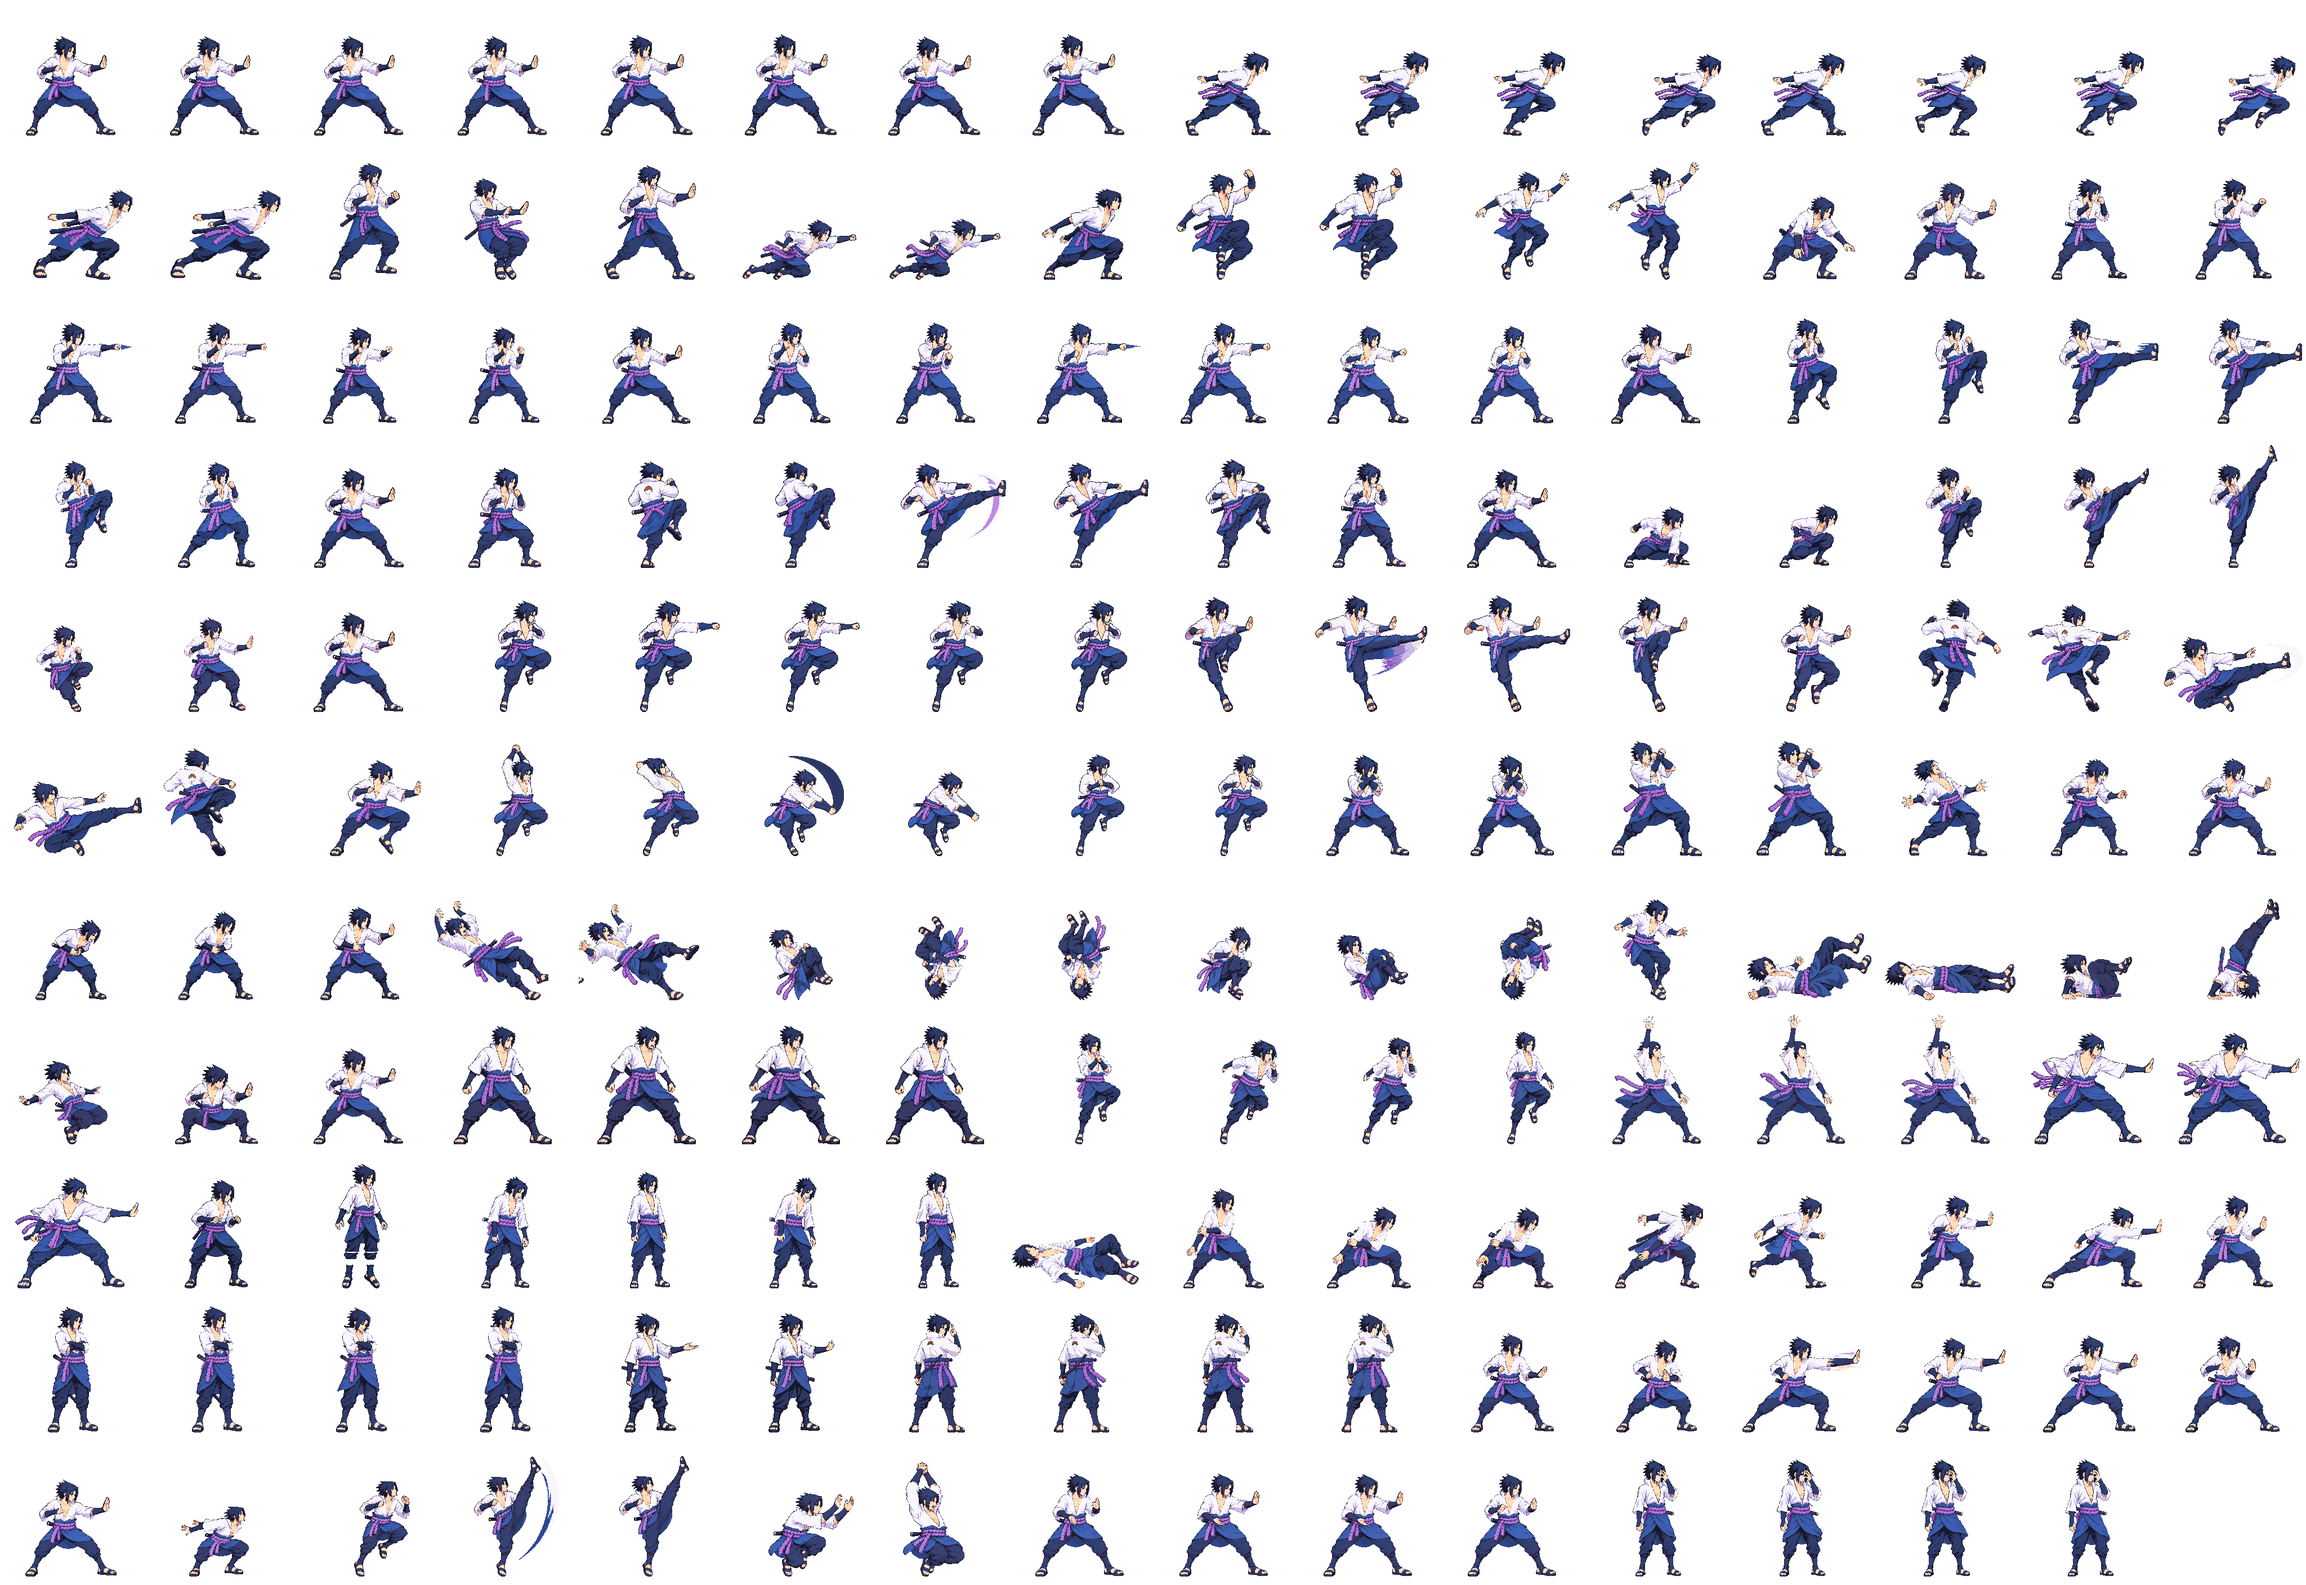
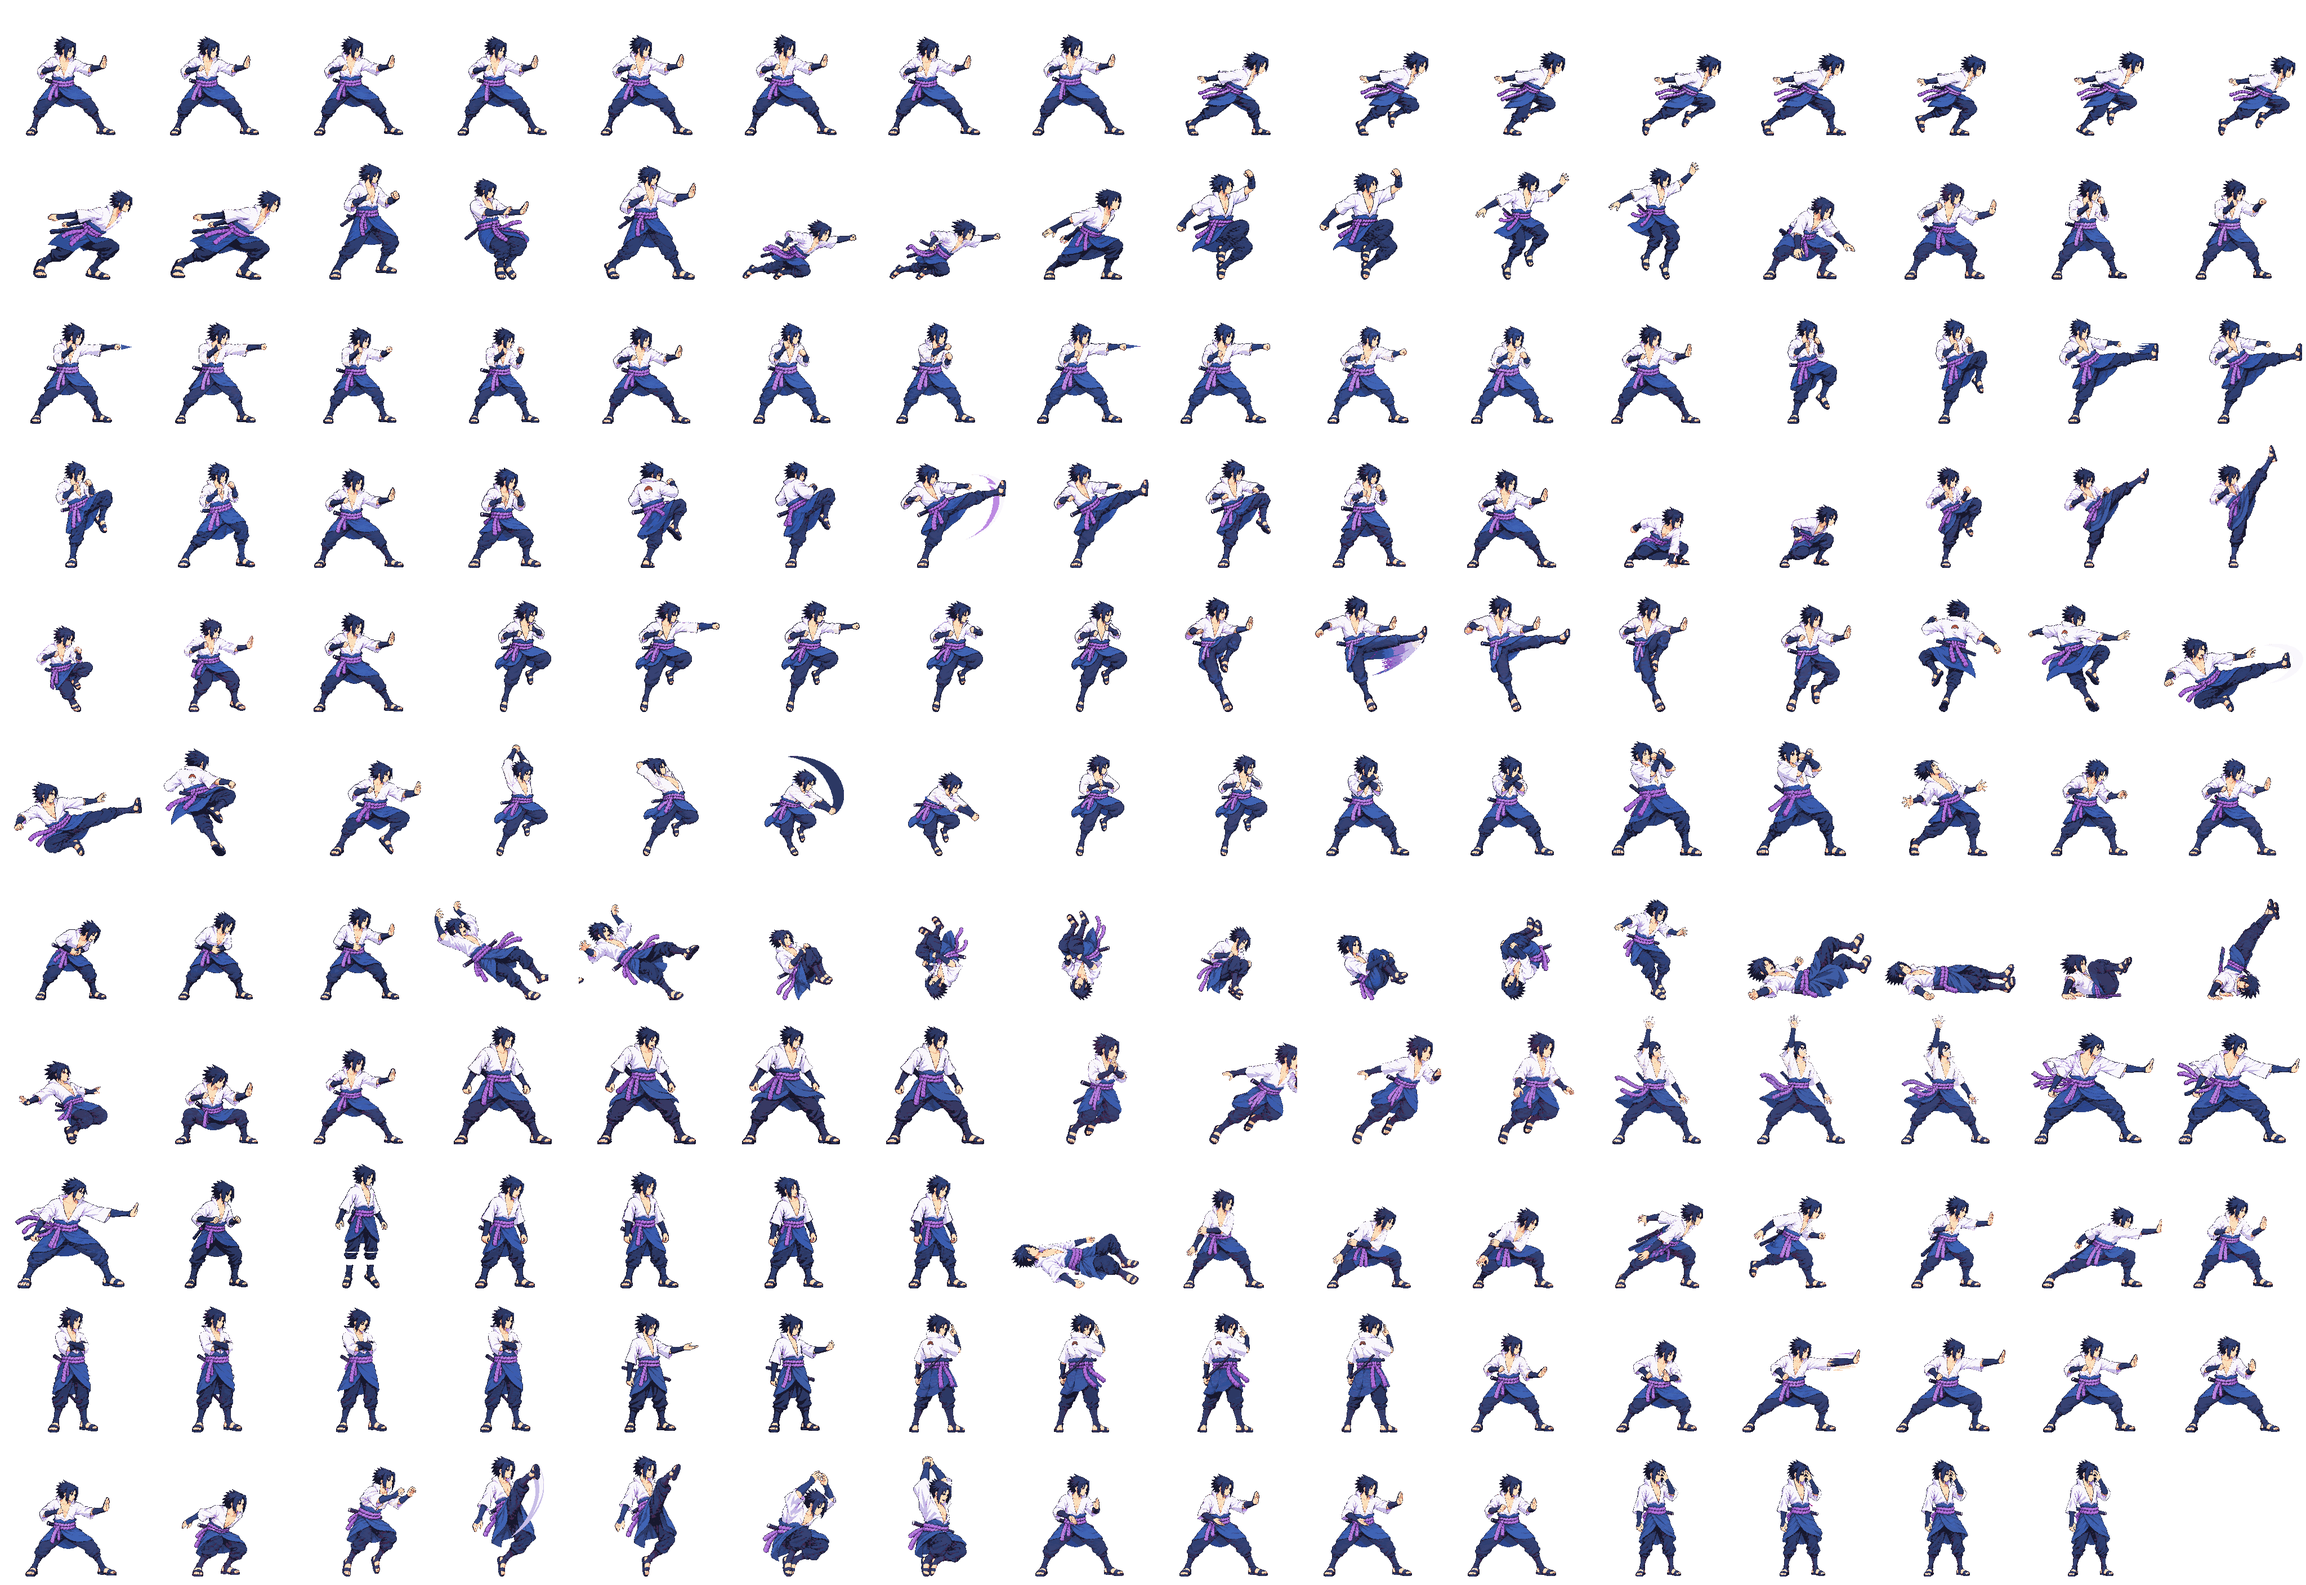
art(sasuke): document final throw and stagger review holds

diff --git a/docs/TASKS.md b/docs/TASKS.md
@@ -20,7 +20,7 @@ The single list of work in flight, shared by the user, Claude and Codex. The pro
 
 ## Milestone M2: training, input, hit accuracy (v0.3.0)
 
-**ART-SAS-TITLE-20261011**, Codex, in-progress. files: art/characters/sasuke/, art/manifest.json, art/TRACKER.md, art/REVIEW.md, art/scale/heads-sasuke.png, public/characters/sasuke/, public/art-review/title-production/sasuke-candidate/, docs/TASKS.md, CHANGELOG.md. Real worktree `art/sasuke-title-production`, draft PR #71. Title-style source attempts now cover all 42 animations and three UI. Strict 48-color mixed atlas passes with 33 title-style animations and nine older fallbacks; it does not certify the complete redraw. New airLight2 v04, airLight3 v07, special v13, specialForward v10 and specialDown v04 pass candidate scale/packing QA. specialUp v04-v06 are archived for failed exact airHeavy f0 endpoint and unresolved tucked head probe, so old v02 packs. Three v02 UI remain raw review candidates; diagnostic preview fits them without approved UI promotion, and portrait hides the far eye in its near-profile pose. Launched/down/KO exhausted, throw/stagger/superPose genuine art holds, spin/airRecover low-confidence holds, contact/hurtboxes Claude validation held. Preview player and native contacts in title-style QA. User final image review and Claude integration remain open.
+**ART-SAS-TITLE-20261011**, Codex, in-progress. files: art/characters/sasuke/, art/manifest.json, art/TRACKER.md, art/REVIEW.md, art/scale/heads-sasuke.png, public/characters/sasuke/, public/art-review/title-production/sasuke-candidate/, docs/TASKS.md, CHANGELOG.md. Real worktree `art/sasuke-title-production`, draft PR #71. Title-style source attempts now cover all 42 animations and three UI. Strict 48-color mixed atlas passes with 33 title-style animations and nine older fallbacks; it does not certify the complete redraw. New airLight2 v04, airLight3 v07, special v13, specialForward v10 and specialDown v04 pass candidate scale/packing QA. specialUp v04-v06 are archived for failed exact airHeavy f0 endpoint and unresolved tucked head probe, so old v02 packs. Three v02 UI remain raw review candidates; diagnostic preview fits them without approved UI promotion, and portrait hides the far eye in its near-profile pose. Launched/down/KO exhausted, throw/stagger (three attempts exhausted), superPose genuine art holds, spin/airRecover low-confidence holds, contact/hurtboxes Claude validation held. Preview player and native contacts in title-style QA. User final image review and Claude integration remain open.
 
 Cast proportion review: **ART-CAST-SAMPLES**, Codex, review. User requested a quick sample checkpoint before the full frame audit. Branch `art/cast-scale-samples` compares production-matched sprites, Naruto guard/block/spot-dodge head crops, and approved turnarounds. No art approvals or gameplay changes. Full audit paused for user feedback; Claude owns integration.
 

diff --git a/art/TRACKER.md b/art/TRACKER.md
@@ -168,9 +168,9 @@ Sprite Lab; if his hair adds clearly less height and his head comes out bigger, 
 | 9 | hurtLow | 3 | - | no | 166 | approved | v03 | v01 | Title-style v03 candidate: measured head fit from 183 to 166 px target, strict new-strip 48-color gate passes; actual packed three-frame QA shows bent abdomen reaction and a matching rising stance. Old v01 remains approved pending full-set review. |
 | 9 | spin | 4 | - | no | 160 | approved | v03 | v01 | Title-style v03 source archived: diagnostic rotation correct, tucked torso/full-limb one-scale proof insufficient. No manual pass; old v01 approved and packed. |
 | 9 | airRecover | 3 | - | no | 180 | approved | v03 | v01 | Title-style v03 source archived: diagnostic orientation correct, tucked torso/limb one-scale proof insufficient. No manual pass; old v01 approved and packed. |
-| 9 | throw | 4 | 1/1/2 | no | 201 | approved | v04 | v01 | Title-style v03/v04 archived for f1 right clip and real f1/f2 head pop; no contact pass. Old v01 remains approved and packed. |
+| 9 | throw | 4 | 1/1/2 | no | 201 | approved | v05 | v01 | Final title-style v05 fails head/foot drift, right clipping and mouth release zone after three calls; old approved v01 packs. |
 | 9 | vanish | 2 | - | no | 221 | approved | v05 | v01 | Title-style v05 afterimage candidate uses version-only manual low-confidence anatomy acceptance after native face/torso/limb QA; not a numeric pass. v03/v04 source-size mismatch archived. Old v01 remains approved pending final-set review. |
-| 9 | stagger | 4 | - | no | 207 | approved | v05 | v01 | Title-style v04/v05 archived for near-frontal face in a right-facing 3/4 game; old v01 remains approved and packed. |
+| 9 | stagger | 4 | - | no | 207 | approved | v06 | v01 | Final title-style v06 fails head/foot drift and f2 near-frontal angle after three calls; old approved v01 packs. |
 | 9 | ko | 1 | - | no | 64 | approved | v05 | v02 | Title-style v04/v05 preserved original supine bent-knees KO but were rejected after three imagegen attempts: low-confidence anatomy and lying contact warnings. Original approved v02 remains packed; technical redraw guidance needed. [QA](characters/sasuke/production/title-style/QA.md). |
 | 9 | intro | 4 | - | no | 210 | approved | v03 | v01 | Title-style v03 crossed-arm loop passes 48-color gate with measured auto-head fit 1.065; old v01 approved pending final-set review. |
 | 9 | taunt | 2 | - | no | 212 | approved | v03 | v01 | Title-style v03 red-eyed beckon passes 48-color new-strip gate without clipping/exemption; actual two-frame atlas QA. Old v01 remains approved pending final-set review. |

diff --git a/art/characters/sasuke/production/title-style/QA.md b/art/characters/sasuke/production/title-style/QA.md
@@ -137,6 +137,8 @@ SpecialUp v04 B was visibly oversized after the neutral stitch and clipped f5. v
 
 Fitted [portrait v02](../../../../public/art-review/title-production/sasuke-candidate/portrait.png) fills 96x96 but keeps the jaw and nose within the cell but its near-profile angle and front bang hide the far eye, so it remains a composition review hold. The 480x128 red three-tomoe cut-in and 384x384 Chidori select art retain their intended silhouettes in fitted diagnostic outputs; both remain unapproved. No UI fixed-name promotion occurred. 48-color palette enforcement remains active. Historical attack reach and hurtbox locations are pending Claude's approved-stature validation.
 
+- Final throw v05 and stagger v06 were generated as the third and final targeted attempts. Fresh 48-color native [throw cells](diagnostic-native-throw-final.png) show f1/f2 right cropping 11/6 px, head ratio 1.14 versus foot proxy 0.86, and the mouth remains beyond the specified release point. [Stagger cells](diagnostic-native-stagger-final.png) still turn the f2 face toward camera and show head 1.08 versus foot proxy 0.75. Neither passed the new-strip scale gate; both are archived. The review player deliberately includes these held sources for inspection through a diagnostic warning-gate atlas. The ordinary strict atlas retains the older approved throw/stagger. All three imagegen calls for each asset are exhausted.
+
 ## Remaining checks
 
 The escalated local Vite adapter served port 5222. The in-app browser showed two Sasuke fighters at the same game depth with the new idle, matched apparent height and grounded feet. The console logged `[sprites] using custom sheet for sasuke (42 animations)` and no errors. The production build passed (80 modules) and the adapter's HTTP self-check returned four 200 responses. Full production, full-character strict scale, contact/hurtbox validation, user image approval, integration and deployment remain open.

diff --git a/art/REVIEW.md b/art/REVIEW.md
@@ -53,6 +53,8 @@ Status values: `needs review` · `approved` · `rejected`.
 
 | date | character | asset | file | version | status | what changed | QA notes |
 |---|---|---|---|---|---|---|---|
+| 2026-10-11 | sasuke | throw | [throw_v05.png](characters/sasuke/raw/_rejected/throw_v05.png) | v05 | rejected | Final airborne fireball breath redraw with stable face angle. | Strict 48-color gate fails head 1.14 versus foot 0.86 and f1/f2 clip 11/6 px right; native [cells](characters/sasuke/production/title-style/diagnostic-native-throw-final.png) miss mouth release zone. Three calls exhausted; original v01 packs. |
+| 2026-10-11 | sasuke | stagger | [stagger_v06.png](characters/sasuke/raw/_rejected/stagger_v06.png) | v06 | rejected | Final planted dizzy-sway redraw. | Strict 48-color gate fails head 1.08 versus foot 0.75; f2 in [native cells](characters/sasuke/production/title-style/diagnostic-native-stagger-final.png) remains too near-frontal. Three calls exhausted; original v01 packs. |
 | 2026-10-11 | sasuke | airLight2 | [airLight2_v04.png](characters/sasuke/raw/airLight2_v04.png) | v04 | needs review | Five-frame airborne kick from chamber to recovery. | 48-color gate passes; native anatomy/pose check in QA. [QA](characters/sasuke/production/title-style/QA.md). |
 | 2026-10-11 | sasuke | airLight3 | [airLight3_v07.png](characters/sasuke/raw/airLight3_v07.png) | v07 | needs review | Six-frame turning heel kick; B re-generated at measured A/B 0.9974, whole-pose offsets fit f2/f3. | 48-color gate passes; native contact and full anatomy in QA. [QA](characters/sasuke/production/title-style/QA.md). |
 | 2026-10-11 | sasuke | airLight3 | [airLight3_v06.png](characters/sasuke/raw/_rejected/airLight3_v06.png) | v06 | rejected | Measured restitch of first B. | Probe f5 0.82 versus f2 1.05 and first kick clipping; superseded by v07. [QA](characters/sasuke/production/title-style/QA.md). |
